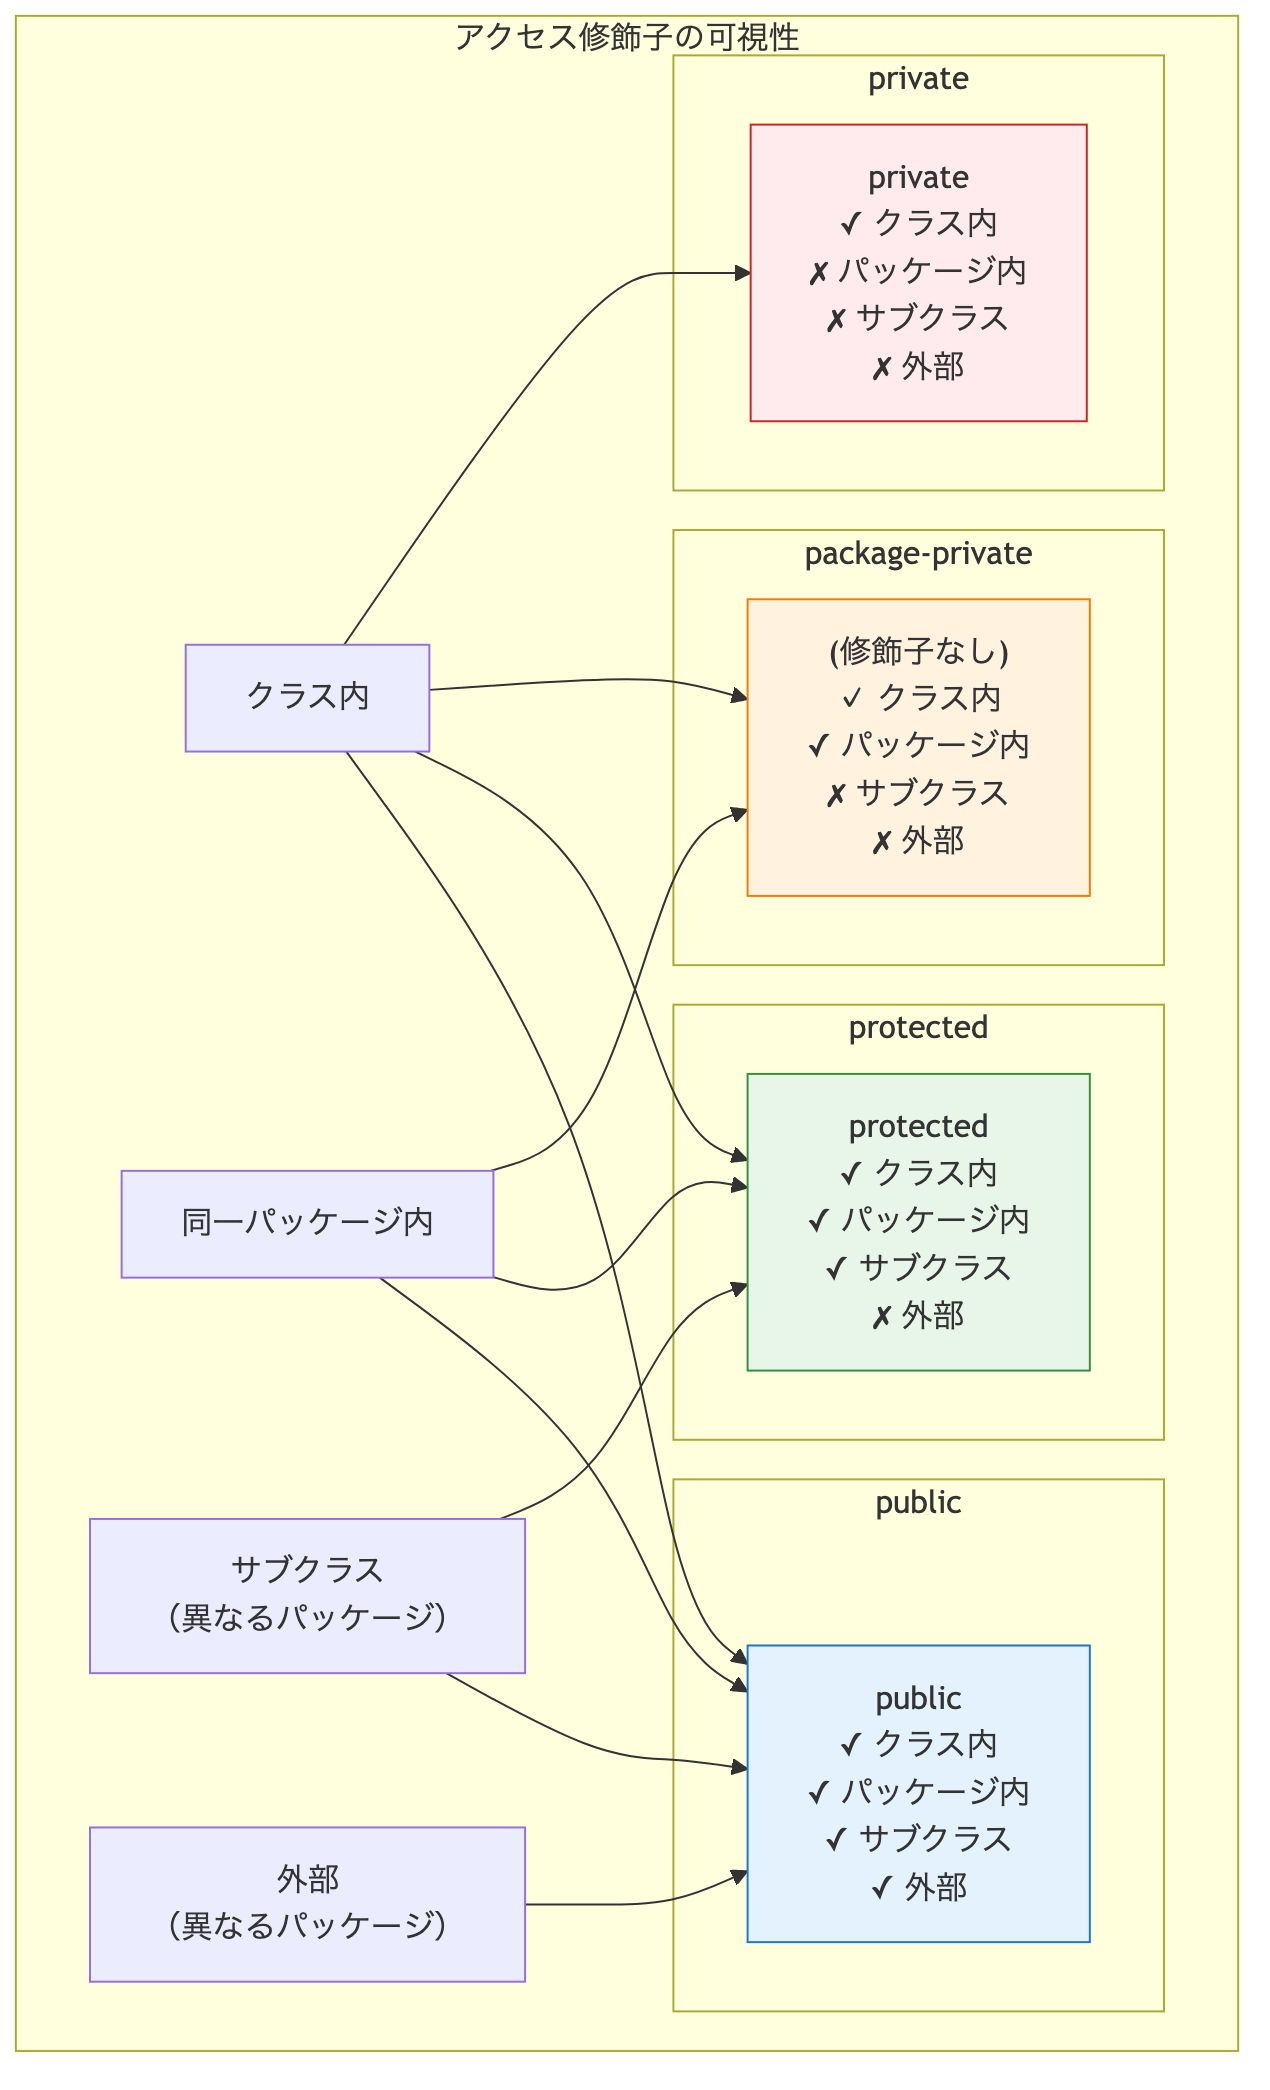
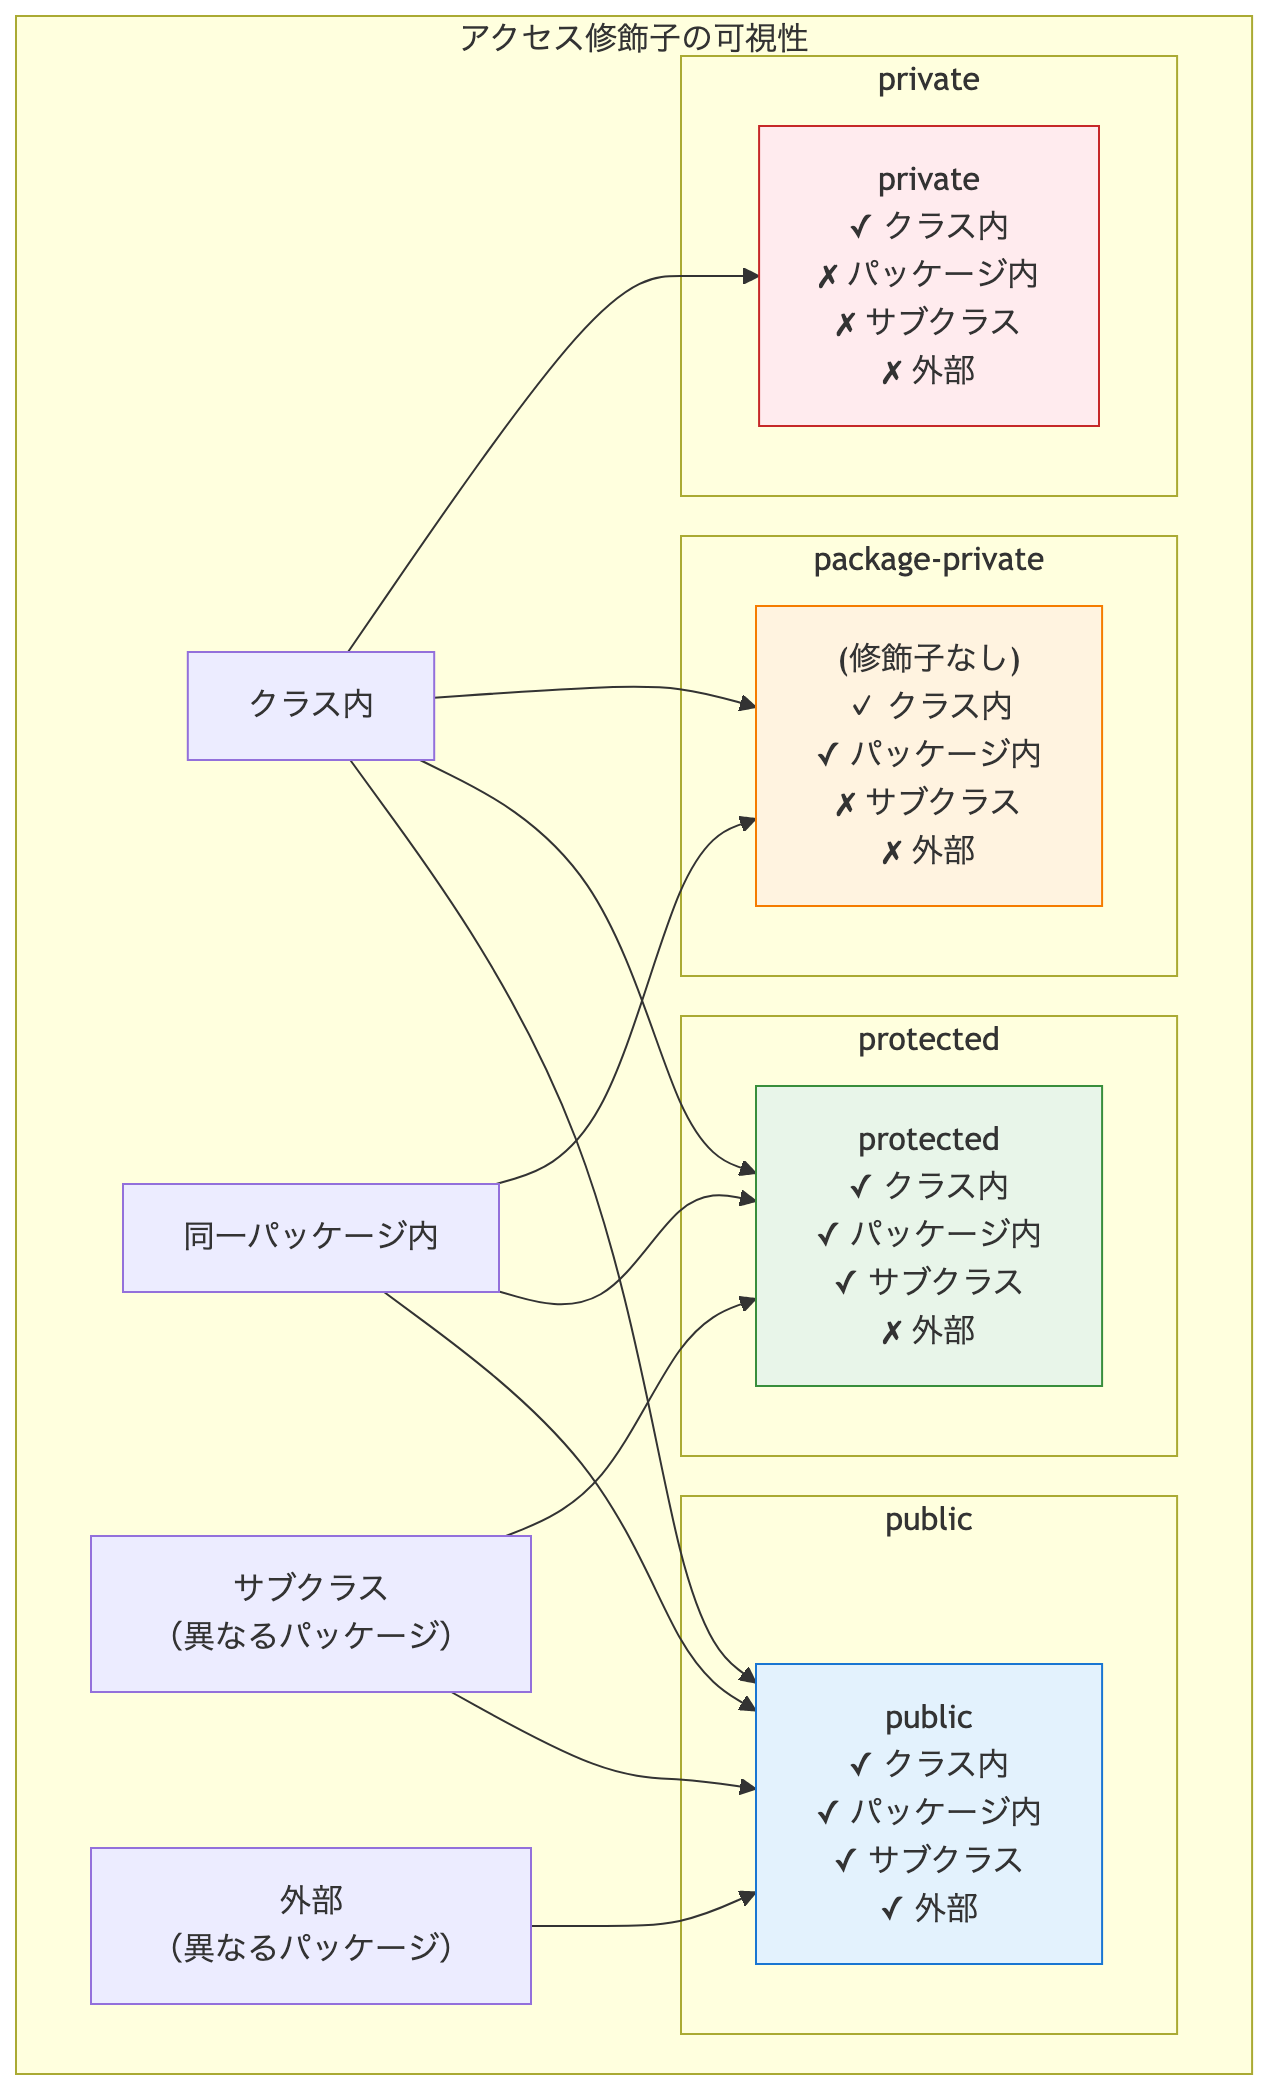
fix: Mermaidが図を描く幅に合わせて図を縮めないようにする
横に広い図はmermaid-cliの-w 1200に収まるよう縮めて描かれ、図ごとに文字の大きさが違っていた。
useMaxWidth: falseにして、どの図も同じ文字の大きさで画像にする（紙面での大きさは別に決める）。

diff --git a/scripts/convert-mermaid-to-images.js b/scripts/convert-mermaid-to-images.js
@@ -22,7 +22,10 @@ if (!fs.existsSync(MANUSCRIPTS_BACKUP_DIR)) {
 
 // 変換オプション
 // 注意: mermaid-cli v12は -w/-H を廃止し、レイアウトも縦長に変わるためv11に固定している
-const MMDC_OPTIONS = '-t default -b white -w 1200 -H 800 --scale 2';
+// 図を描く幅（-w）より広い図をMermaidが縮めないようにする（useMaxWidth: false）。
+// 図の文字はどれも同じ大きさで描かれ、紙面での大きさは scripts/diagram-size.js が決める
+const CONFIG_FILE = path.join(DIAGRAMS_DIR, 'mermaid-config.json');
+const MMDC_OPTIONS = `-t default -b white -w 1200 -H 800 --scale 2 -c "${CONFIG_FILE}"`;
 
 // 変換済みの図の記録（.mmdの内容と変換オプションのハッシュ）
 // mmdcの出力はビルドのたびにわずかに変わるため、元の図が変わったときだけ変換する
@@ -35,7 +38,8 @@ try {
 } catch (e) {
   convertedHashes = {};
 }
-const sourceHash = (text) => crypto.createHash('sha256').update(`${MMDC_OPTIONS}\n${text}`).digest('hex').slice(0, 16);
+const configText = fs.readFileSync(CONFIG_FILE, 'utf8');
+const sourceHash = (text) => crypto.createHash('sha256').update(`${MMDC_OPTIONS.replace(CONFIG_FILE, '')}\n${configText}\n${text}`).digest('hex').slice(0, 16);
 
 console.log('Mermaid図の変換を開始します...');
 
